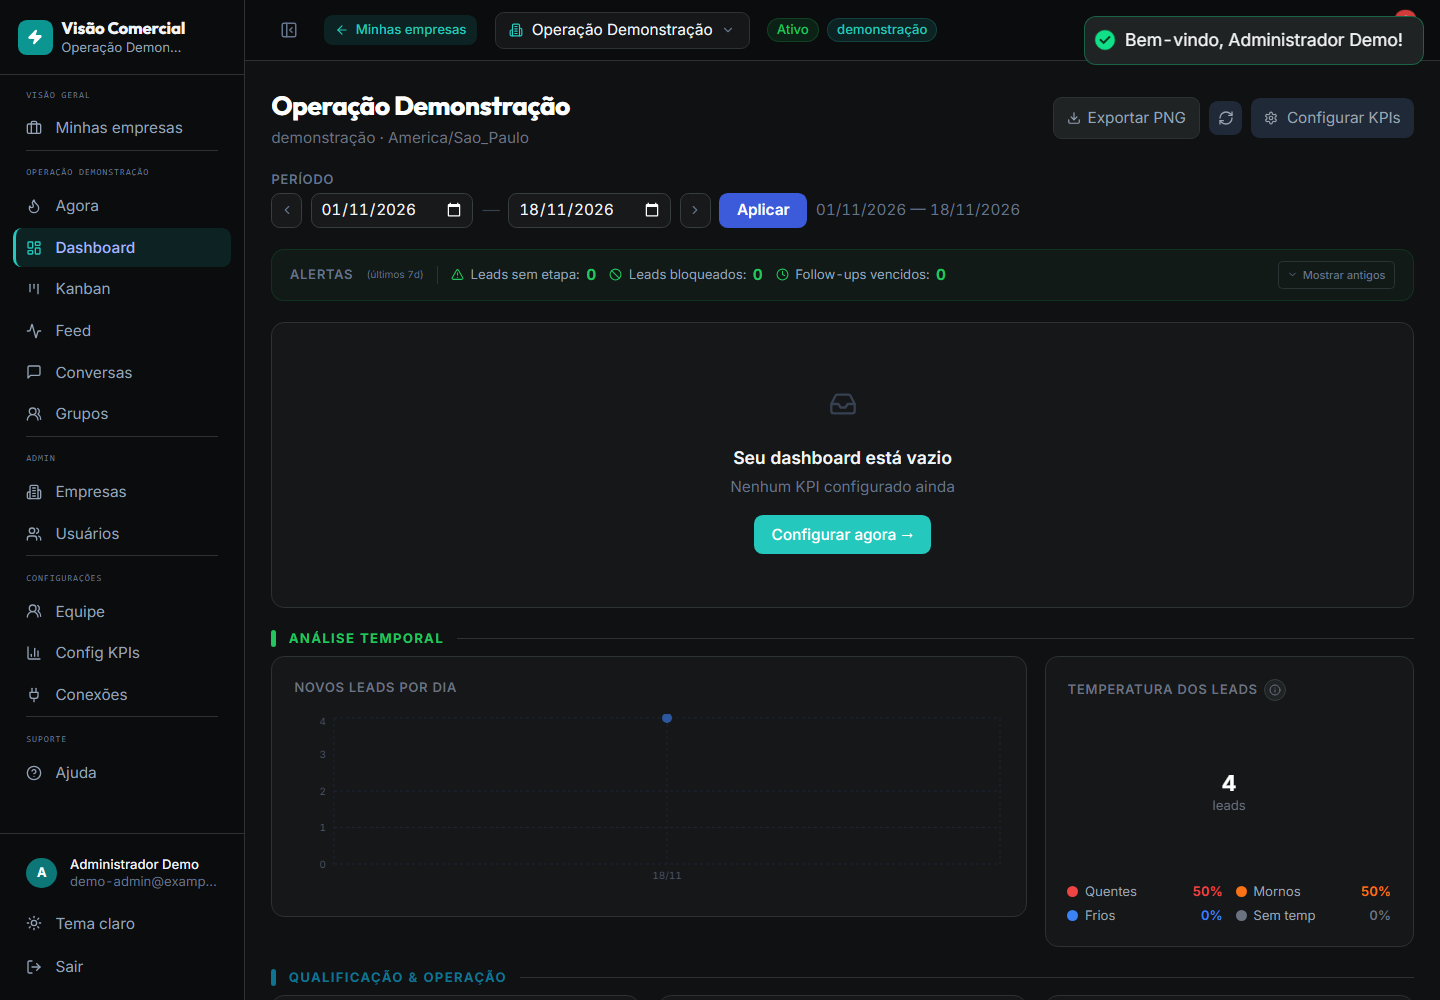
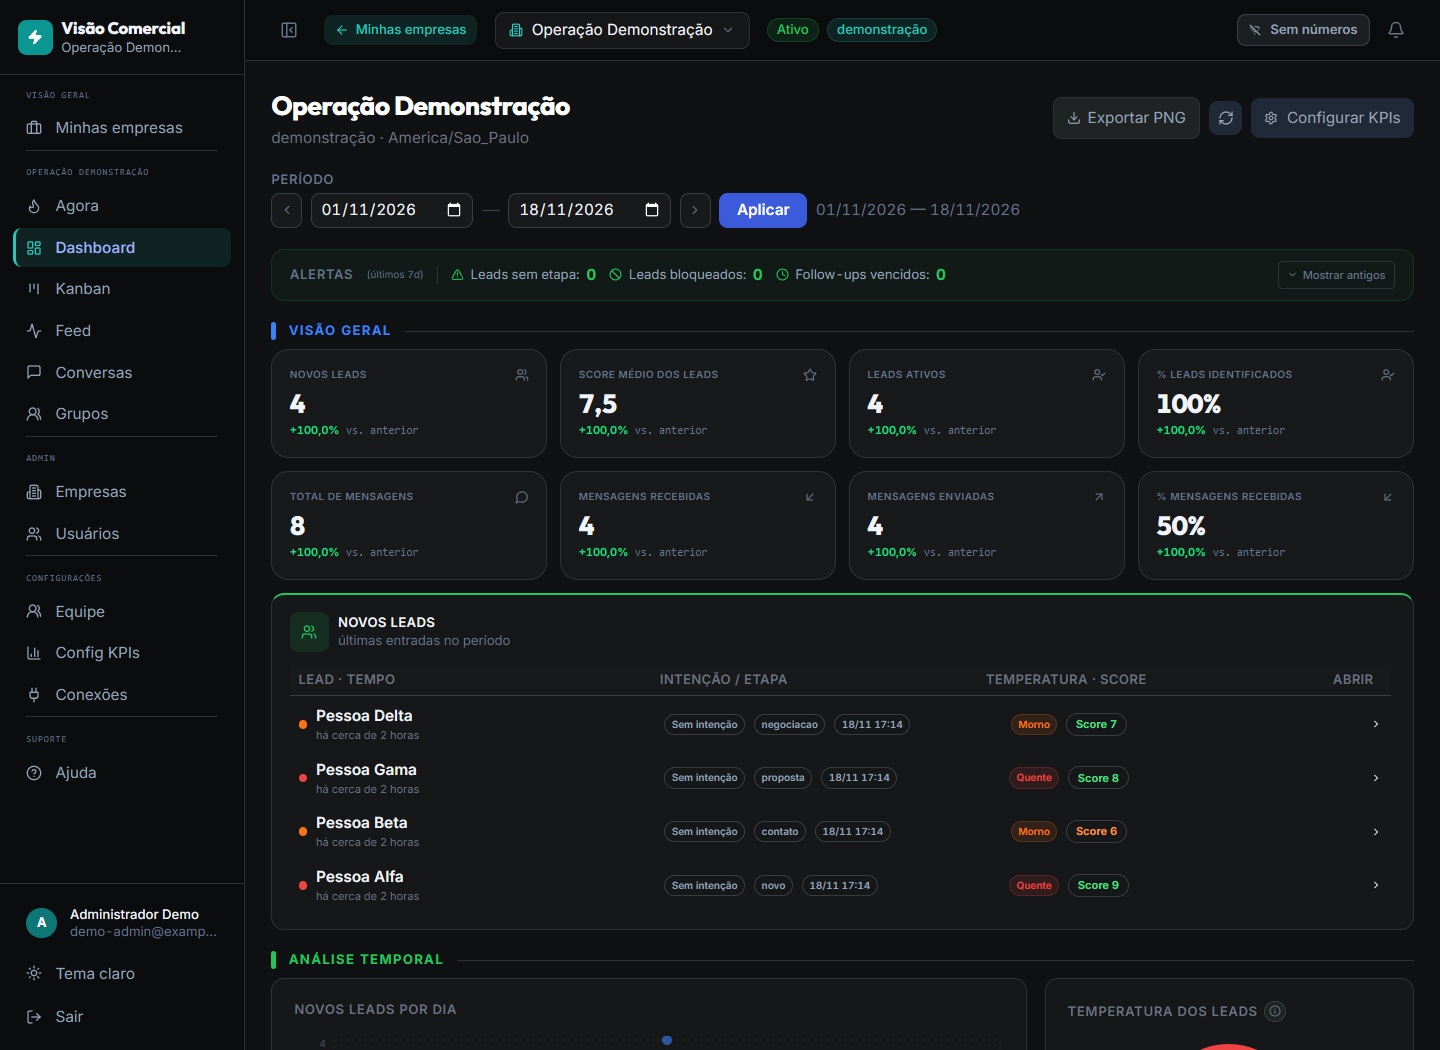
docs: incluir tres capturas por aplicativo e demonstrar KPIs

diff --git a/backend/seed_demo.py b/backend/seed_demo.py
@@ -5,9 +5,12 @@ from datetime import datetime, timedelta, timezone
 
 from sqlalchemy import select
 
+from app.core.bootstrap import assert_local_database_target
 from app.core.config import settings
 from app.core.database import AsyncSessionLocal, engine
 from app.core.security import hash_password
+from app.kpi_catalog import BUILTIN_KPIS
+from app.models.dashboard import DashboardConfig, KpiCatalogo
 from app.models.lead import Lead
 from app.models.message import Mensagem
 from app.models.tenant import Cliente
@@ -22,7 +25,14 @@ DEMO_LEADS = (
 )
 
 
+DEMO_KPI_SLUGS = (
+    "total_leads", "leads_ativos", "score_medio", "pct_leads_identificados",
+    "total_mensagens", "msgs_recebidas", "msgs_enviadas", "pct_msgs_recebidas",
+)
+
+
 async def main() -> None:
+    assert_local_database_target()
     async with AsyncSessionLocal() as db:
         user = await db.scalar(select(User).where(User.email == settings.SUPERADMIN_EMAIL))
         if user is None:
@@ -84,6 +94,23 @@ async def main() -> None:
                         enviada_em=now - timedelta(minutes=19 - index),
                     ),
                 ])
+        # Indicadores reais calculados sobre os registros sintéticos da prévia.
+        # Inserir somente o que falta preserva customizações feitas pelo usuário.
+        existing_kpis = set((await db.scalars(select(KpiCatalogo.slug))).all())
+        for definition in BUILTIN_KPIS:
+            if definition["slug"] in DEMO_KPI_SLUGS and definition["slug"] not in existing_kpis:
+                db.add(KpiCatalogo(**definition, is_builtin=True))
+        dashboard = await db.scalar(
+            select(DashboardConfig).where(DashboardConfig.cliente_id == tenant.id)
+        )
+        if dashboard is None:
+            db.add(DashboardConfig(
+                cliente_id=tenant.id,
+                updated_by=user.id,
+                kpis=[{"slug": slug, "ordem": index, "visivel": True}
+                      for index, slug in enumerate(DEMO_KPI_SLUGS)],
+                layout="grid",
+            ))
         await db.commit()
     await engine.dispose()
 

diff --git a/README.md b/README.md
@@ -4,9 +4,21 @@ Visão Comercial é uma prévia local de uma plataforma para acompanhamento come
 
 > Esta versão foi preparada para demonstração local. Ela usa somente dados sintéticos. As integrações de negócio externas estão desativadas.
 
-![Dashboard da Operação Demonstração com quatro leads sintéticos](docs/images/dashboard.png)
+## Capturas da demonstração
 
-*Dashboard da Operação Demonstração, criado automaticamente com dados fictícios. O estado "sem KPIs configurados" é intencional: os indicadores podem ser configurados na própria aplicação.*
+As três telas abaixo foram capturadas na aplicação local, com quatro leads e oito mensagens fictícias. Os scores e as classificações são exemplos cadastrados; nenhuma análise externa por IA foi executada.
+
+![Visão geral com oito KPIs calculados sobre dados fictícios](docs/images/dashboard.png)
+
+*Visão geral: quatro leads ativos, score médio de 7,5, 100% dos leads identificados e oito mensagens — quatro recebidas e quatro enviadas.*
+
+![Gráficos de temperatura, funil e horários de interação](docs/images/funil-e-temperatura.png)
+
+*Distribuição dos leads por temperatura, etapas do funil e horários das mensagens da demonstração.*
+
+![Faixas de qualificação e indicadores de mensagens](docs/images/qualificacao-e-mensagens.png)
+
+*Detalhamento por faixa de score, percentual de identificação e volume de mensagens. Os rótulos de IA da interface representam dados simulados nesta prévia.*
 
 ## Recursos incluídos
 
@@ -52,7 +64,7 @@ O setup cria os segredos e a senha aleatória da demonstração local. Para entr
 1. Entre com a conta de demonstração.
 2. Abra **Minhas empresas** e selecione **Operação Demonstração**.
 3. Use **Dashboard**, **Conversas** e **Config KPIs**.
-4. No Dashboard, configure os indicadores desejados para a operação de demonstração.
+4. O Dashboard inicia com oito KPIs de demonstração. Em **Config KPIs**, escolha os indicadores desejados e clique em **Salvar**.
 
 O código inclui um Kanban. Na validação desta prévia, a tela permaneceu em carregamento e seu uso não foi confirmado; a causa ainda não foi determinada.
 
